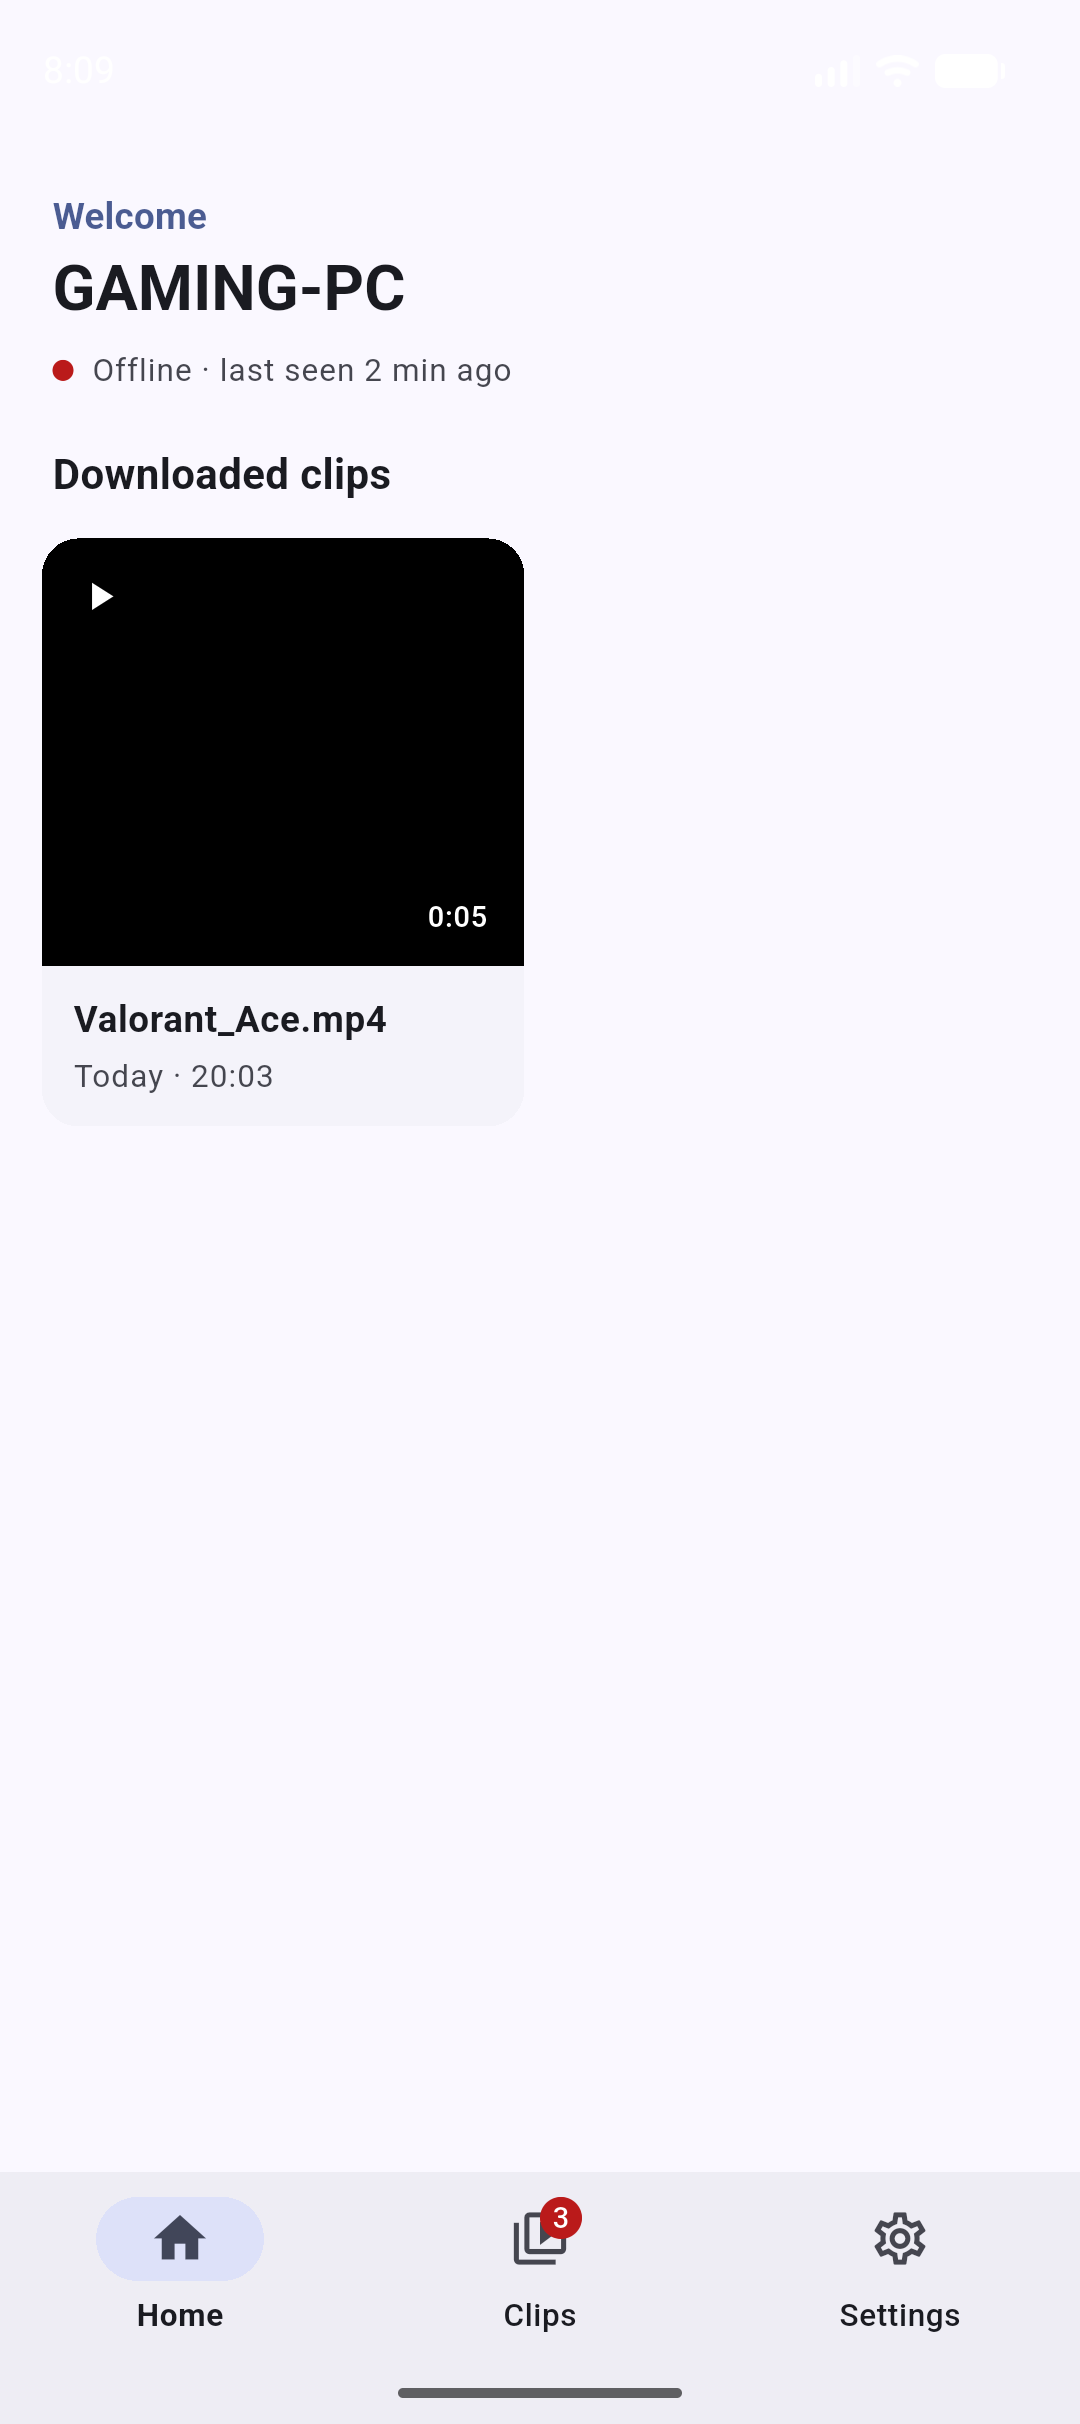
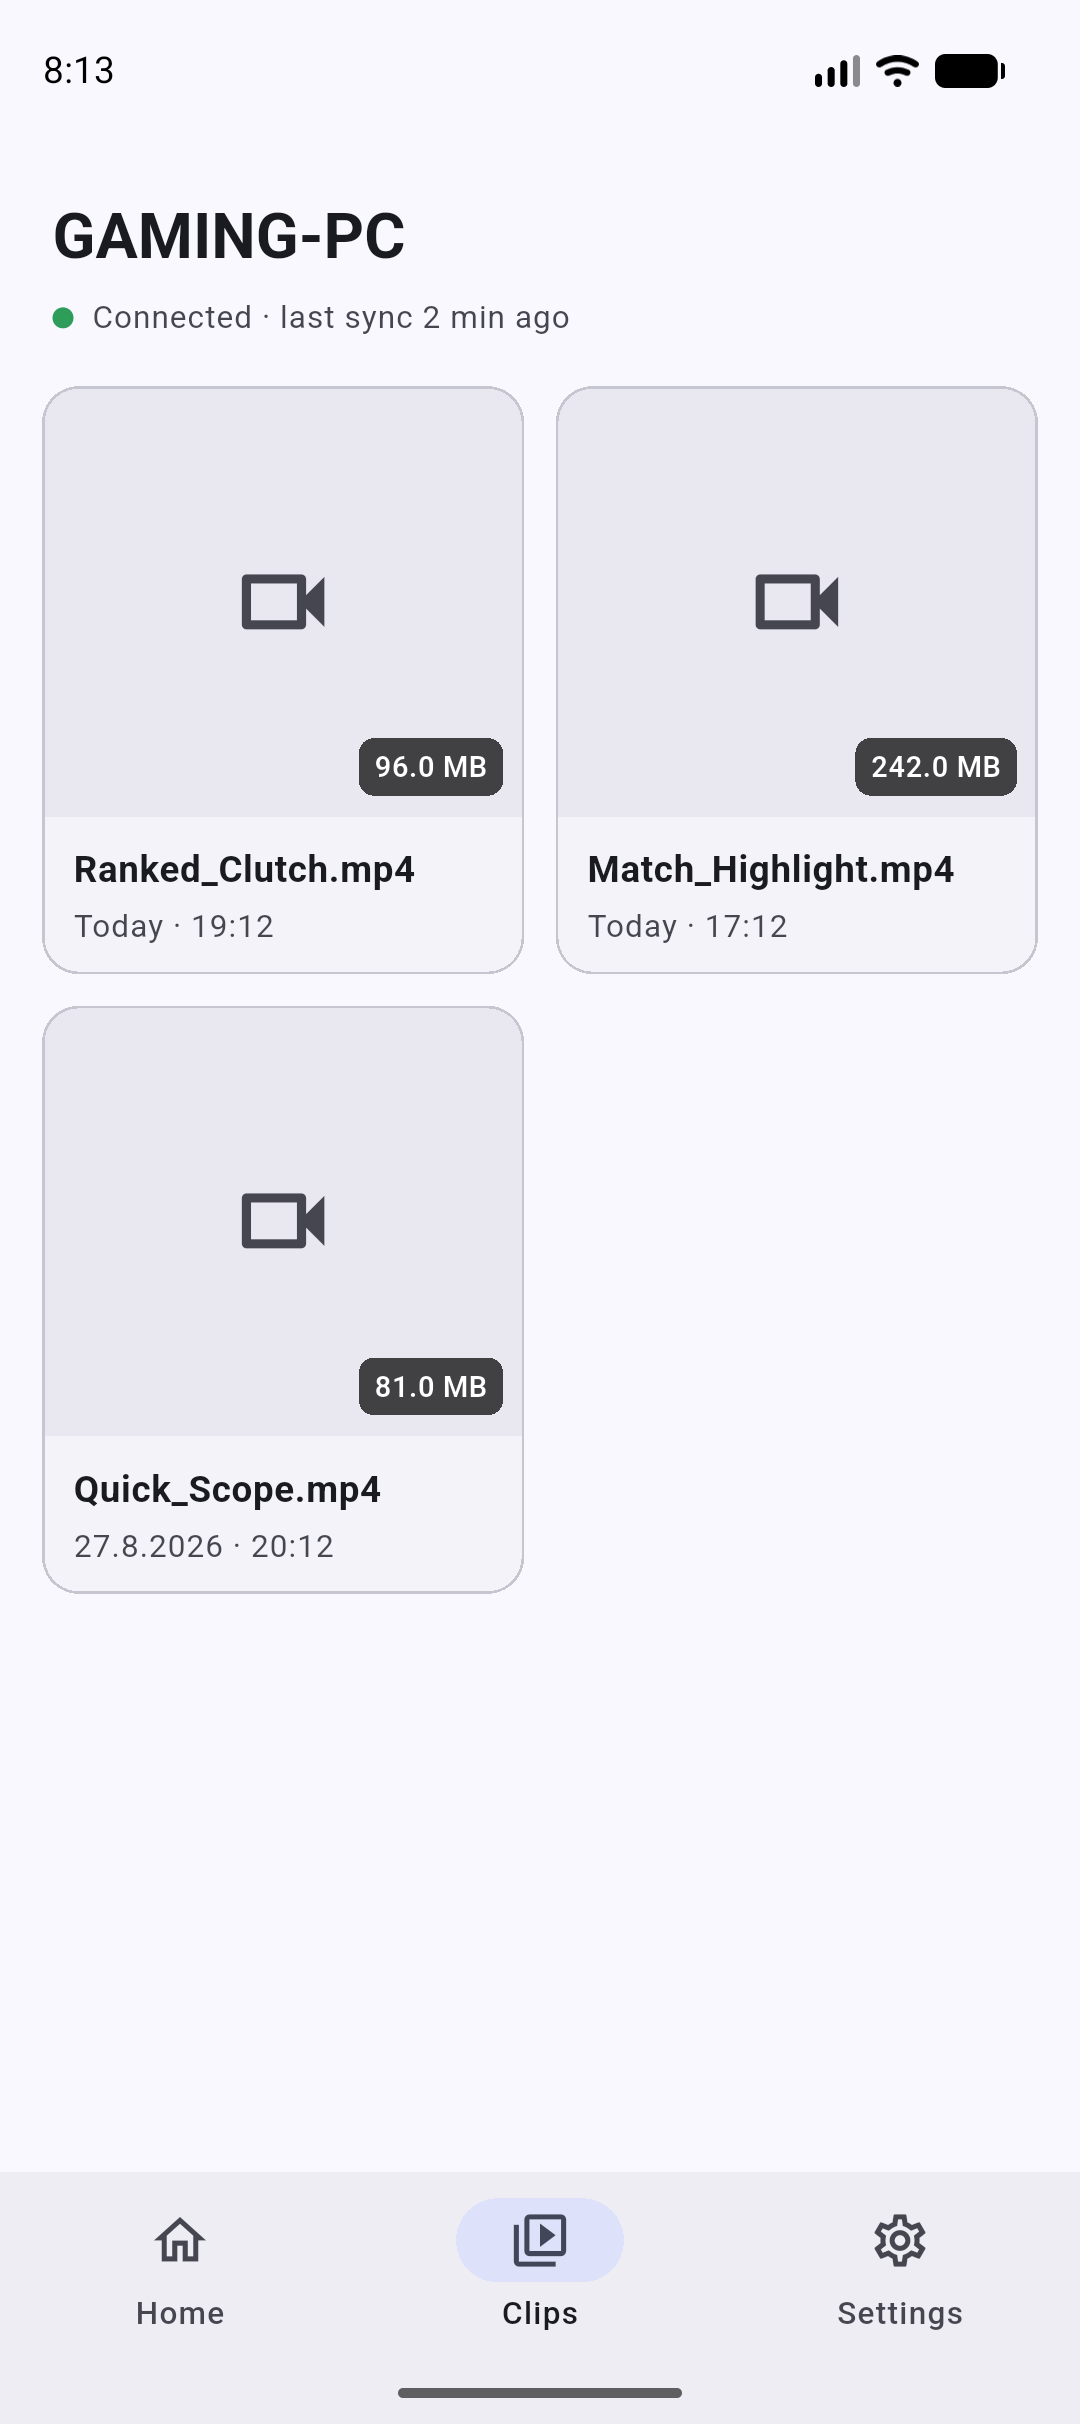
fixes i guess

diff --git a/flutter/lib/features/player/player_screen.dart b/flutter/lib/features/player/player_screen.dart
@@ -111,6 +111,8 @@ class _PlayerScreenState extends State<PlayerScreen> {
                       child: Row(
                         children: [
                           IconButton.filledTonal(
+                            tooltip:
+                                _controller.value.isPlaying ? 'Pause' : 'Play',
                             onPressed: () => _controller.value.isPlaying
                                 ? _controller.pause()
                                 : _controller.play(),

diff --git a/flutter/design-qa.md b/flutter/design-qa.md
@@ -1,0 +1,53 @@
+# ShadowPlay design QA
+
+## Visual truth and viewport
+
+- Source of visual truth: `C:\Users\ayon1xw\.codex\attachments\3d251d4f-548c-4610-960a-0b722ebbe478\image-1.png` (1522 × 1033 px). It is a multi-screen structural wireframe, not a single pixel-perfect device viewport.
+- Implementation viewport: Pixel 10 Android emulator at 1080 × 2424 physical px, 420 dpi (2.625 density), approximately 411.4 × 923.4 logical dp.
+- Fullscreen player viewport: 2424 × 1080 physical px after landscape rotation.
+- Same-input comparison boards:
+  - `design-qa-artifacts/comparison-onboarding.png`
+  - `design-qa-artifacts/comparison-main-flow.png`
+
+## Captured states
+
+- First-run intro, camera explanation, QR pairing, manual pairing, Android camera permission, and denied-permission fallback.
+- Connected Home with a real local video preview and duration.
+- Clips grid, one selected clip, singular download action, and two-selected plural semantics.
+- Settings at the top and scrolled through storage, notifications, appearance, and About.
+- Local player in portrait and fullscreen landscape.
+
+## Review
+
+### Layout, spacing, type, and color
+
+The implementation preserves the wireframe hierarchy: first-run pairing precedes a three-destination shell; Home prioritizes the active PC and local clips; Clips uses a selectable grid and contextual download action; Settings groups devices and app preferences. Material 3 spacing, typography, radii, selected states, and the blue accent are internally consistent at the emulator viewport. No content is clipped, overlapped, or pushed beneath system navigation.
+
+The wireframe is intentionally sparse. The implementation adds production detail without changing the information architecture: explicit online/offline status, sync timing, storage usage, download state, and light/dark/system appearance controls.
+
+### Images and icons
+
+Material icons are used consistently for navigation, pairing, device state, video placeholders, downloads, settings, and player controls. Downloaded local videos render an actual frame and duration. Remote clips use a neutral video poster because the current server DTO does not provide thumbnails or durations.
+
+### Copy
+
+Copy is concise and action-oriented. Singular and plural download labels are correct. Camera access is explained before the operating-system permission prompt, and denial exposes a manual fallback. Downloaded clips are described as local/offline playback rather than remote streaming.
+
+### Interaction and accessibility
+
+- Onboarding controls, QR/manual mode switching, manual fields, and the camera-permission sequence were exercised on the emulator.
+- Home, Clips, and Settings preserve state through an `IndexedStack`.
+- Clip selection was exercised for one and two clips; the action bar updated from `Download 1 clip` to `Download 2 clips`.
+- Local playback, seek progress, and fullscreen landscape rotation were exercised with a five-second MP4.
+- Android accessibility semantics expose tab position, selected tab, clip cards, selection count, download action, slider percentage, and fullscreen action.
+- During QA, the player play/pause control was found to have no semantic label. A dynamic `Play`/`Pause` tooltip was added before the final validation run.
+- Touch targets use standard Material controls and meet the expected mobile target size.
+
+## Severity history
+
+- P0: none.
+- P1: none.
+- P2: unlabeled play/pause control; fixed by adding a dynamic tooltip.
+- Remaining actionable P0/P1/P2 issues: none.
+
+final result: passed
